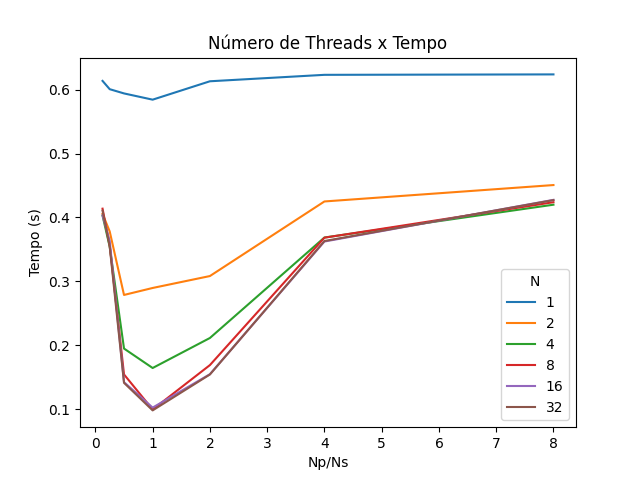
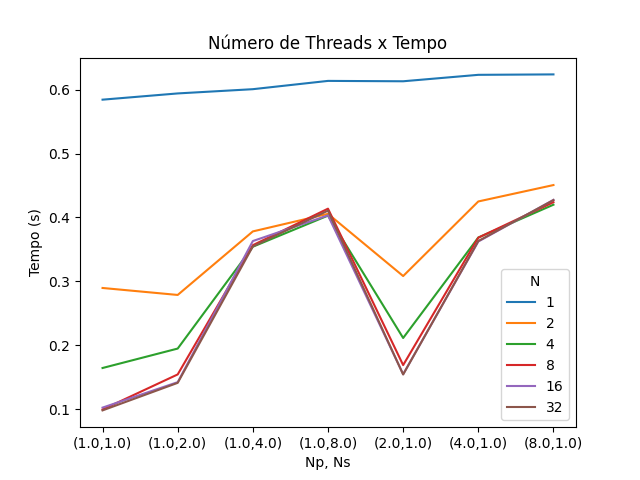
finalizado

diff --git a/Projeto_2/2. Semaforo/make_graph.py b/Projeto_2/2. Semaforo/make_graph.py
@@ -19,9 +19,7 @@ def dataframe_csv(data_file):
     df['graph_index'] = df.apply(lambda x: choose_tuple(
         np=x['Np'], nc=x['Nc']), axis=1)
 
-    df['graph_index'] = df.apply(lambda x: (x['Np'])/(x['Nc']), axis=1)
-
-    print(df)
+    df['graph_index'] = df.apply(lambda x: "("+str(x['Np'])+","+str(x['Nc'])+")", axis=1)
 
     return df
 
@@ -34,7 +32,7 @@ def build_graph(df):
 
     fig = df.pivot(index='graph_index', columns='N',
                    values='time').plot(title="Número de Threads x Tempo")
-    fig.set_xlabel("Np/Ns")
+    fig.set_xlabel("Np, Ns")
     fig.set_ylabel("Tempo (s)")
     return fig
 
